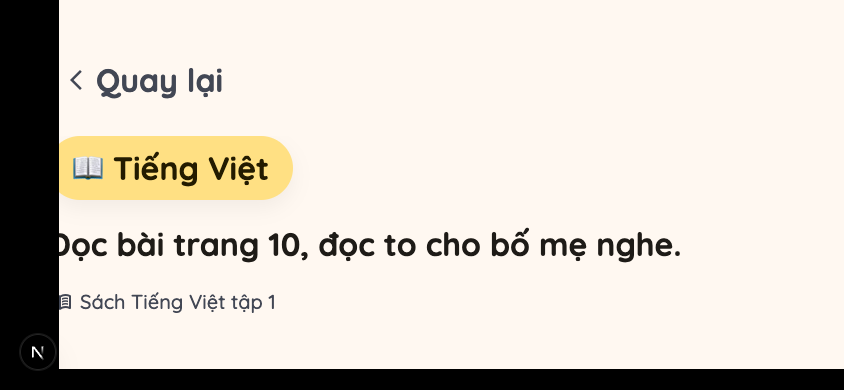
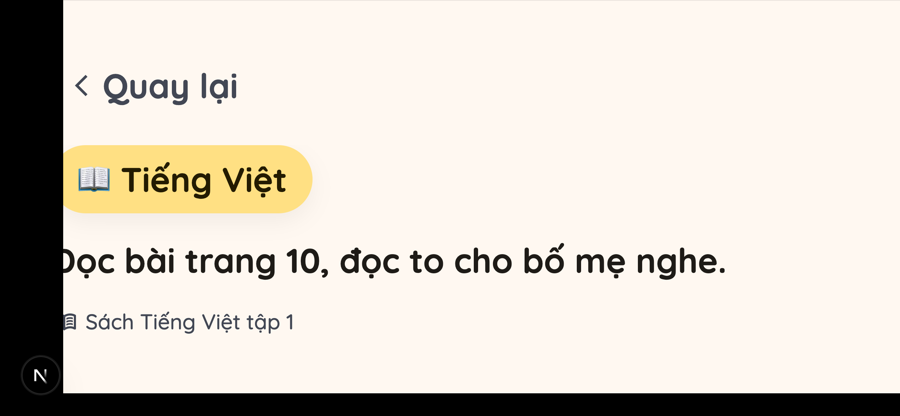
docs: chụp lại bằng chứng #56 ở khổ iPhone THẬT (390px), ghi lại cách kiểm
Bộ ảnh cũ chụp ở cửa sổ Chrome `resize 390 844`, mà Chrome có đáy 500px nên
`innerWidth` thật là 500 — rộng hơn iPhone 14 tới 28%, vừa đủ để lỗi captain
báo (viền "Đổi thưởng" đè lên nút back) không xuất hiện. Chụp lại toàn bộ bằng
`emulate --viewport "390x844x3,mobile,touch"`, và với dữ liệu xấu nhất (⭐ ba
chữ số) thay vì nhà seed 0 ⭐.

AGENTS.md ghi lại ba điều để lần sau không vấp: resize vs emulate, hit-test
bằng elementFromPoint thay vì nhìn ảnh, và đặt dữ liệu xấu nhất trước khi kiểm.

diff --git a/AGENTS.md b/AGENTS.md
@@ -65,6 +65,23 @@ Kiểm bố cục ở nhiều cỡ màn: có sẵn ảnh chụp đối chiếu t
 `stitch-macbook/kiem-tra/` (màn của con) và `stitch-parent-macbook/kiem-tra/`
 (màn của bố mẹ) — `macbook-*` ở 1440×900, `ipad-*` ở 1180×820.
 
+**Kiểm cỡ ĐIỆN THOẠI thì `chrome-devtools-axi resize` LÀ SAI** — cửa sổ Chrome có
+đáy 500px nên `resize 390 844` cho ra `innerWidth = 500`, rộng hơn iPhone 14 tới
+28%, vừa đủ để mọi lỗi chen chỗ trên header biến mất. Lỗi #56 lọt qua đúng vì
+thế. Dùng `emulate --viewport "390x844x3,mobile,touch"` (device-metrics override,
+có cả dpr và cảm ứng) và kiểm lại bằng `eval "() => innerWidth"` trước khi tin
+tấm ảnh nào.
+
+Và **ảnh chụp không đủ để nói "nút bấm được"**: mắt không thấy một lớp trong
+suốt đè lên. Phép kiểm chắc tay là hit-test ngay trong trang —
+`el.scrollIntoView()` rồi `document.elementFromPoint()` ở một lưới điểm trong
+`getBoundingClientRect()` của nút, đếm xem bao nhiêu điểm trả về chính nút đó;
+kèm `documentElement.scrollWidth > innerWidth` để bắt tràn ngang. Chạy vòng qua
+mọi màn × mọi cỡ thì một lượt rà là đủ tin.
+
+Dữ liệu seed mặc định là trạng thái DỄ NHẤT (con 0 ⭐ → viền "Đổi thưởng" hẹp
+nhất). Kiểm bố cục phải đặt dữ liệu XẤU NHẤT trước: ⭐ ba chữ số, tên con dài.
+
 Lái trình duyệt vào `next dev` thì mở bằng **`http://localhost:<cổng>`**, đừng
 dùng `127.0.0.1`. Next 16 chặn "cross-origin dev request" nên mọi tệp
 `/_next/static/**` trả 403 khi host là `127.0.0.1`: trang vẫn dựng xong ở phía
